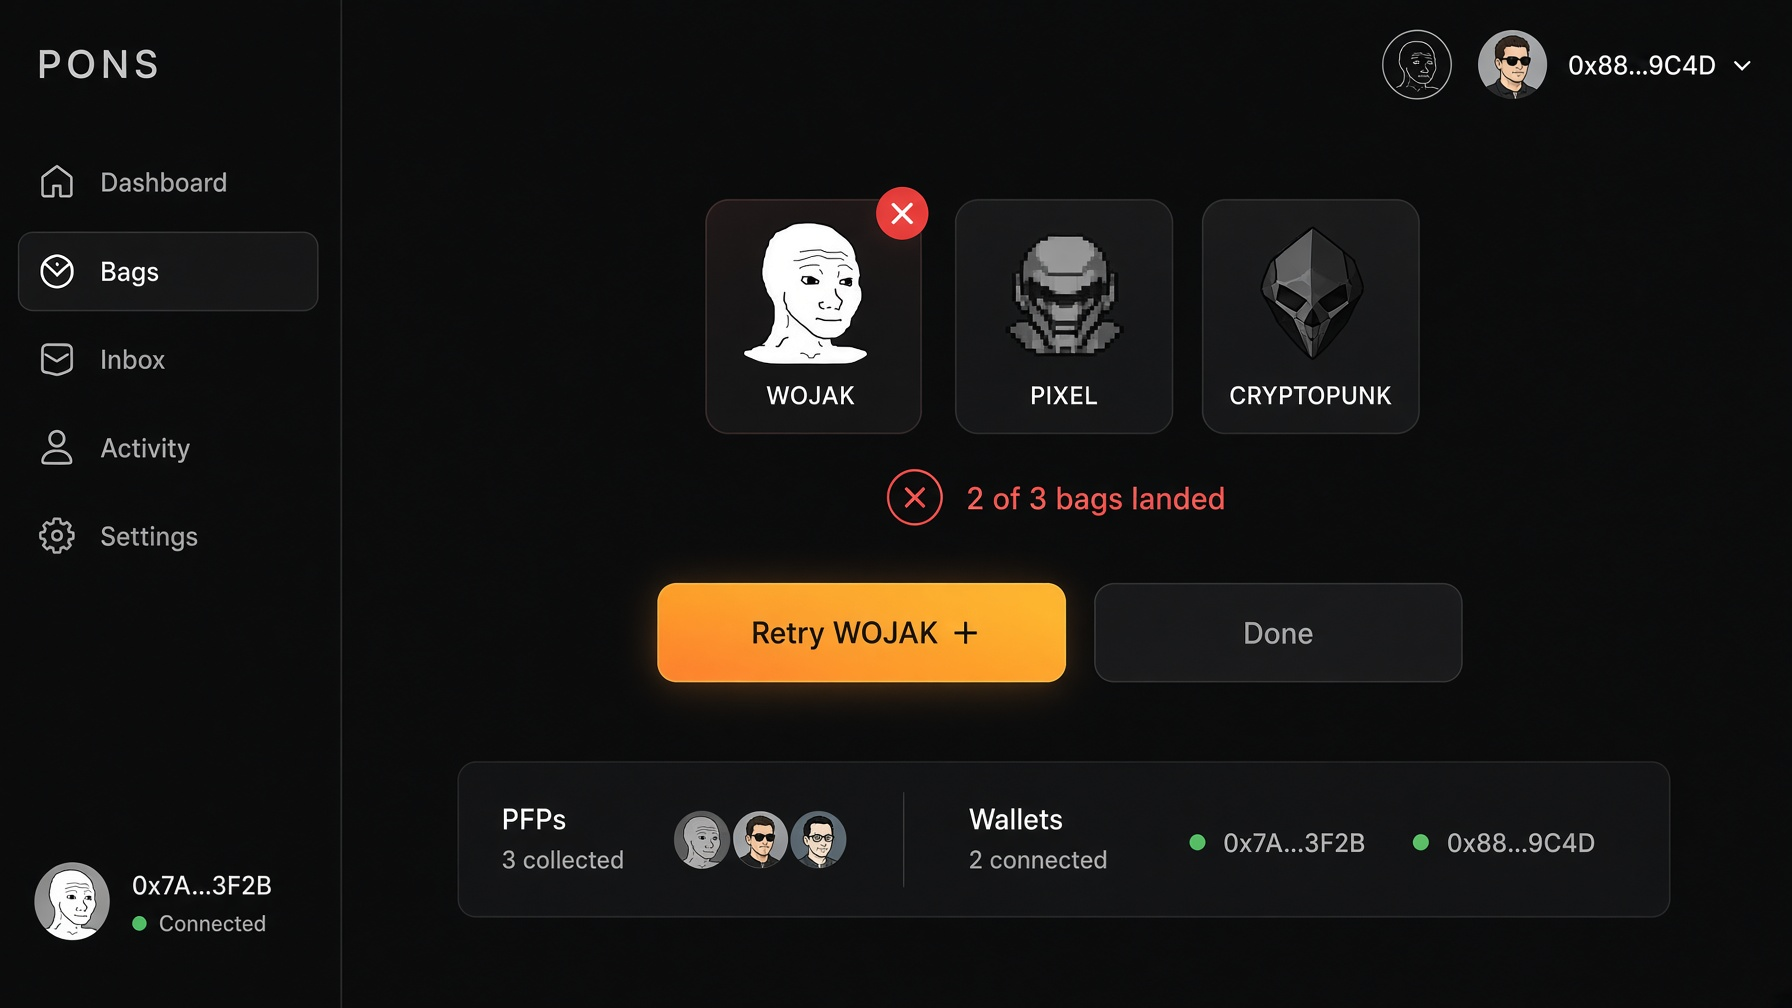
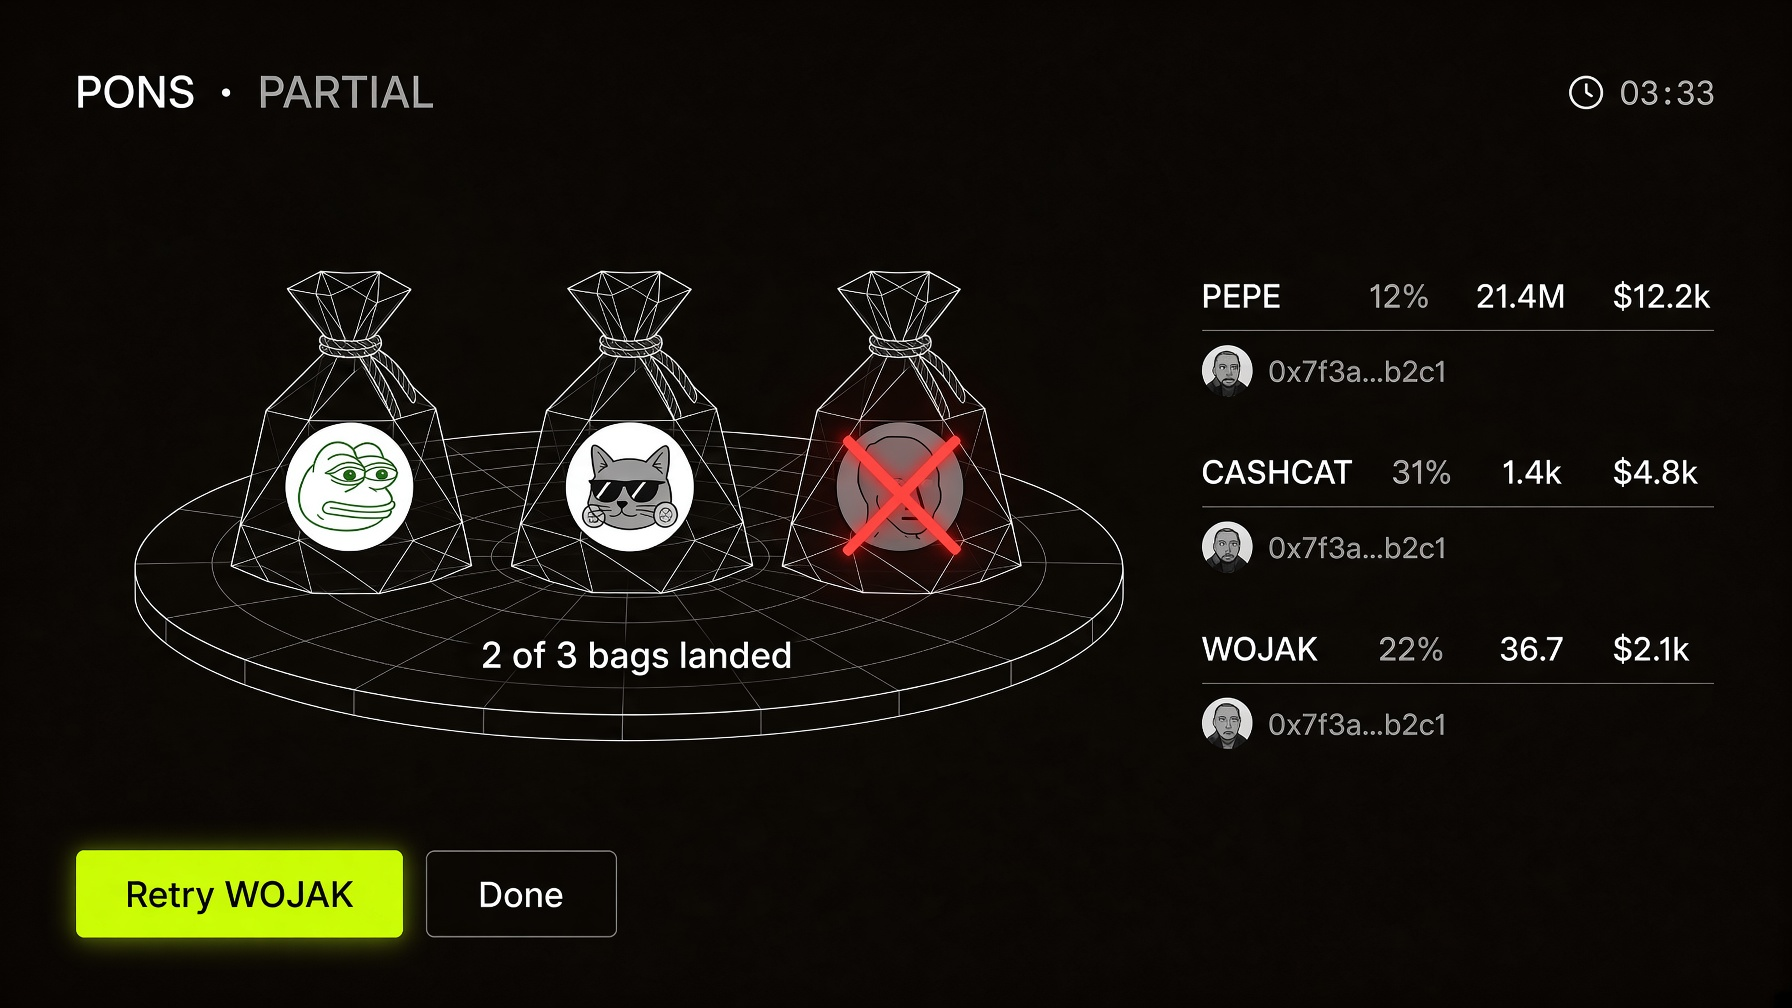
Make all screens visually consistent: single master wireframe system, warm black only

diff --git a/DESIGN.md b/DESIGN.md
@@ -90,3 +90,9 @@ Giant wheel · chat dock · token encyclopedia · hex-dump wall · 12-step appro
 4. Tickers are meme coins only
 5. Mobile = same tokens, stacked layout
 6. If it looks like a casino mock or Dribbble shot, rewrite to tokens
+
+## Visual consistency lock (screens)
+- One master system: warm black canvas, white wireframe technical bags on circular platform, right stats list, PFP + `0x…` wallets, Robin Neon primary bottom-left
+- All desktop screens share that chrome — only state content changes
+- Bags: faceted wireframe + white circular logo plate
+- No light/cream paper backgrounds, no blue glow, no alternate bag styles
